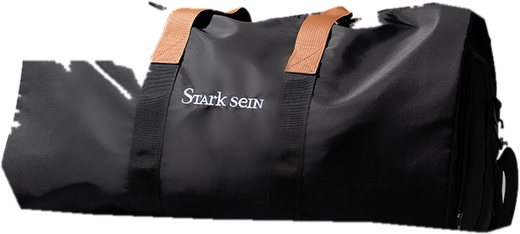
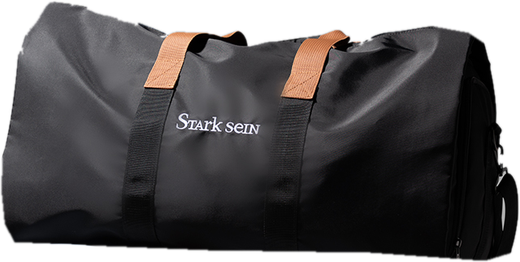
보스턴백 깨진 모서리 수정, 완주 카드 상품 사진 확대·선명하게

diff --git a/index.html b/index.html
@@ -461,15 +461,25 @@
   }
   .card-bags {
     display: flex;
-    gap: 12px;
+    gap: 14px;
     justify-content: center;
     align-items: flex-end;
-    padding: 0 14px 10px;
+    padding: 4px 14px 12px;
+    height: 108px;
+    box-sizing: border-box;
   }
   .card-bags img {
-    height: 46px;
-    max-width: 30%;
+    height: 62px;
+    width: auto;
+    max-width: 36%;
     object-fit: contain;
+    filter: drop-shadow(0 4px 6px rgba(0, 0, 0, 0.16));
+  }
+  .card-bags img.tall {
+    height: 92px;
+  }
+  .intro-img.tall {
+    height: 130px;
   }
 </style>
 
@@ -578,6 +588,7 @@
         bagW: 0.22,
         ratio: 0.62,
         img: "img/bag_carrier.png",
+        tall: true,
         mouth: 0.27,
         color: "--bag3",
         good: [
@@ -656,6 +667,8 @@
       cv.width = W * dpr;
       cv.height = H * dpr;
       ctx.setTransform(dpr, 0, 0, dpr, 0, 0);
+      ctx.imageSmoothingEnabled = true;
+      ctx.imageSmoothingQuality = "high"; // 큰 사진을 작게 그릴 때 덜 깨져요
       sizeBag();
       draw();
     }
@@ -708,7 +721,7 @@
       const s = st();
       overlay(`
       ${msg ? `<p class="clear">${msg}</p>` : ""}
-      <img class="intro-img" src="${s.img}" alt="스탁사인 ${s.name}">
+      <img class="intro-img ${s.tall ? "tall" : ""}" src="${s.img}" alt="스탁사인 ${s.name}">
       <p class="eyebrow">${si + 1}단계 · 스탁사인 ${s.name}</p>
       <h2>${s.brief}</h2>
       <div class="rules">
@@ -792,7 +805,7 @@
       <div class="card" role="group" aria-label="완주 카드">
         <div class="card-eyebrow"><img class="band-logo" src="img/logo_word.png" alt="STARK SEIN"><span>· 세 가방 짐 싸기</span></div>
         <div class="card-title">완주!</div>
-        <div class="card-bags">${STAGES.map((s) => `<img src="${s.img}" alt="스탁사인 ${s.name}">`).join("")}</div>
+        <div class="card-bags">${STAGES.map((s) => `<img class="${s.tall ? "tall" : ""}" src="${s.img}" alt="스탁사인 ${s.name}">`).join("")}</div>
         <div class="card-row"><span>점수</span><b>${score.toLocaleString("ko-KR")}점</b></div>
         <div class="card-row"><span>응모 번호</span><b class="code">${makeCode()}</b></div>
         <div class="card-foot">${date} · @starksein_travels</div>
